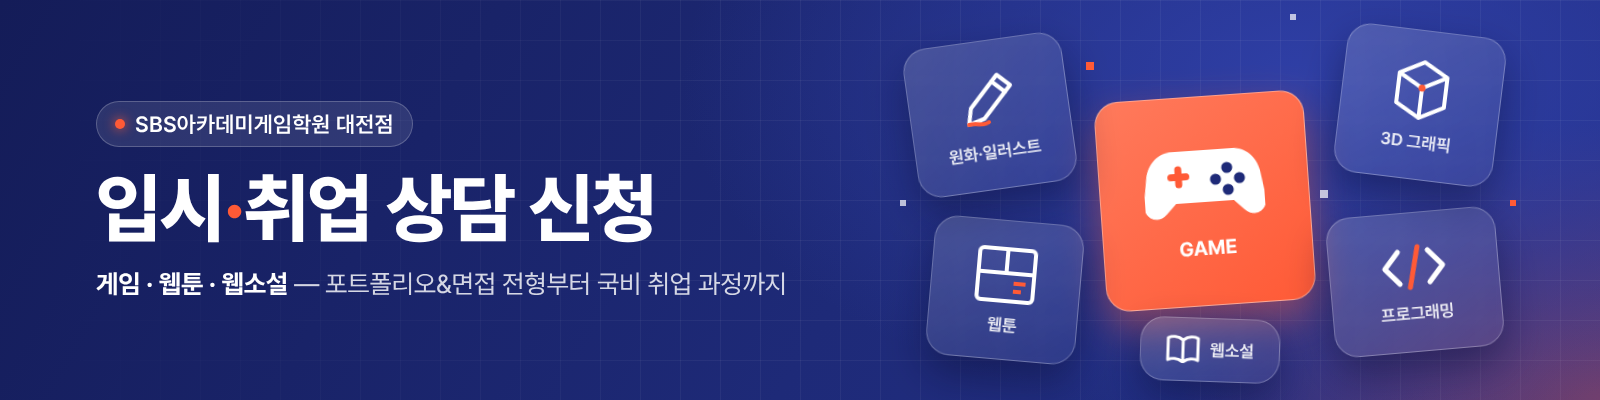
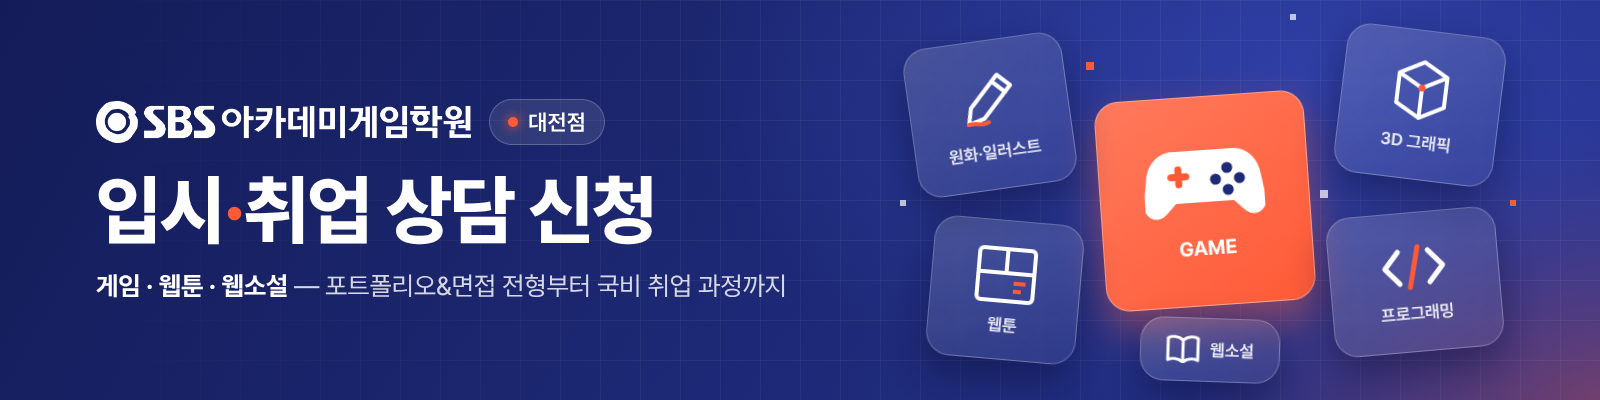
폼 머리글에 공식 로고(흰색, 원본 그대로) 반영, 세션 협업 사례 기록
Claude-Session: https://claude.ai/code/session_01MaNjEE5MqxtV8eaMbLXWJL

Changed region(s): [[0.0625, 0.42, 0.4062, 0.63], [0.0625, 0.24, 0.375, 0.36], [0.0625, 0.66, 0.5, 0.75]]

diff --git a/tools/google-form/assets/src/폼_머리글.html b/tools/google-form/assets/src/폼_머리글.html
@@ -15,10 +15,12 @@ body{background:#fff}
   linear-gradient(rgba(255,255,255,.05) 1px,transparent 1px),linear-gradient(90deg,rgba(255,255,255,.05) 1px,transparent 1px);
   background-size:40px 40px;mask-image:linear-gradient(90deg,transparent 0%,#000 45%,#000 100%)}
 .txt{position:absolute;left:96px;top:0;bottom:0;display:flex;flex-direction:column;justify-content:center;width:820px}
+.brand{display:flex;align-items:center;gap:18px}
+.brand img{height:42px;width:auto;display:block}
 .tag{display:inline-flex;align-items:center;gap:10px;align-self:flex-start;padding:9px 18px;border-radius:999px;
   background:rgba(255,255,255,.1);border:1px solid rgba(255,255,255,.22);font-size:22px;font-weight:600;letter-spacing:.2px}
 .tag i{width:10px;height:10px;border-radius:50%;background:#FF5A36;box-shadow:0 0 12px #FF5A36}
-h1{margin-top:22px;font-size:76px;font-weight:800;letter-spacing:-2px;line-height:1.05}
+h1{margin-top:26px;font-size:76px;font-weight:800;letter-spacing:-2px;line-height:1.05}
 h1 b{color:#FF5A36}
 .sub{margin-top:20px;font-size:26px;font-weight:400;color:rgba(255,255,255,.82);letter-spacing:-.3px}
 .sub em{font-style:normal;font-weight:700;color:#fff}
@@ -34,7 +36,7 @@ h1 b{color:#FF5A36}
 <div class="canvas">
   <div class="grid"></div>
   <div class="txt">
-    <div class="tag"><i></i>SBS아카데미게임학원 대전점</div>
+    <div class="brand"><img src="logo/SBS아카데미게임학원_White.png" alt="SBS아카데미게임학원"><span class="tag"><i></i>대전점</span></div>
     <h1>입시<b>·</b>취업 상담 신청</h1>
     <p class="sub"><em>게임 · 웹툰 · 웹소설</em> — 포트폴리오&amp;면접 전형부터 국비 취업 과정까지</p>
   </div>

diff --git a/brand/channels.md b/brand/channels.md
@@ -27,7 +27,7 @@
 - [x] 카카오톡 오픈채팅 검토 (2026-10-24)
 - [x] 구글 폼 생성 스크립트 작성·실행, 디스코드 알림 연결 테스트 성공 (2026-10-24, 첫 시도 429/1015 → 재시도로 해결, 중계 서버 불필요)
 - [x] 폼 꾸미기 이미지 4장 제작, decorateForm(GitHub에서 이미지 자동 삽입) 추가 (2026-10-24) — 머리글·색상은 폼 화면에서 직접
-- [ ] 공식 로고: 회사 PC 세션(Kegone)에 홈페이지 로고 확보 요청함 → 받으면 머리글에 반영
+- [x] 공식 로고 머리글 반영 (2026-10-24) — 사업부 공유폴더 `회사 로고(무단 수정 금지)/PNG/SBS아카데미게임학원_White.png`를 "상담 준비 자료 정리" 세션이 구글 드라이브 `학원로고_전달`에 복사 → 드라이브 커넥터로 받아 원본 그대로 사용(색·비율 변경 금지)
 - [ ] 실제 테스트 제출(입시·취업·미정 3건)로 분기·알림 확인 → 구글 폼 응답용 주소 기록
 - [ ] 블로그 CTA·티스토리 서식·사이드바에 폼 링크 추가 (주소 받은 뒤)
 - [ ] 상담일지 스킬(contact-consultation-log)에 유입 경로 항목 추가 — 계정 스킬이라 claude.ai에서 수정

diff --git a/docs/세션_협업.md b/docs/세션_협업.md
@@ -26,3 +26,11 @@
 - **Cowork 세션**: Remote Control을 지원하는지 공식 문서로 확인하지 못했다.
 - PC가 켜져 있고 앱(또는 터미널)이 열려 있어야 연결이 유지된다.
 - 새 세션으로 시작해도 된다면 `tools/remote-control/리모트시작.cmd`처럼 작업 폴더에서 `claude remote-control`을 실행한다.
+
+## 실제 협업 사례 (2026-10-24, 로고 확보)
+1. 클라우드 세션이 "상담 준비 자료 정리"(PC, 공유폴더 연결) 세션에 메시지로 요청을 보냈다.
+2. PC 세션이 공유폴더에서 로고를 찾아 `G:\내 드라이브\학원로고_전달`에 복사했다. 원본과 같은지 MD5로 확인했고, 결과는 마지막 답변에 적었다.
+3. 클라우드 세션이 그 세션의 기록(list_events)을 읽어 결과를 확인했다.
+4. 클라우드 세션이 드라이브 커넥터로 파일을 받아 작업했다.
+
+이렇게 **요청 메시지 → PC 작업 → 구글 드라이브 → 클라우드 세션** 순서로 진행하는 것이 지금 가장 확실한 방법이다.
